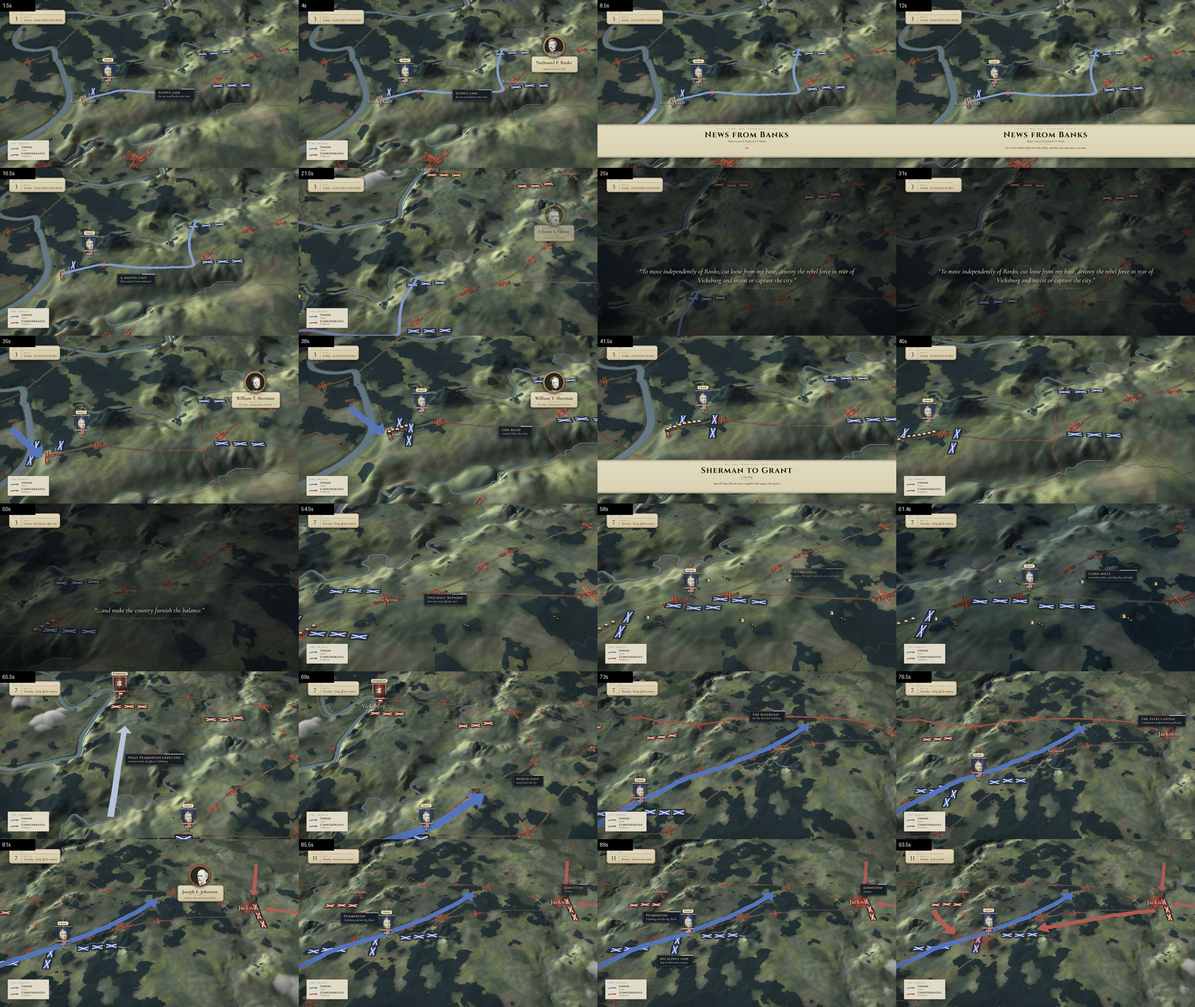
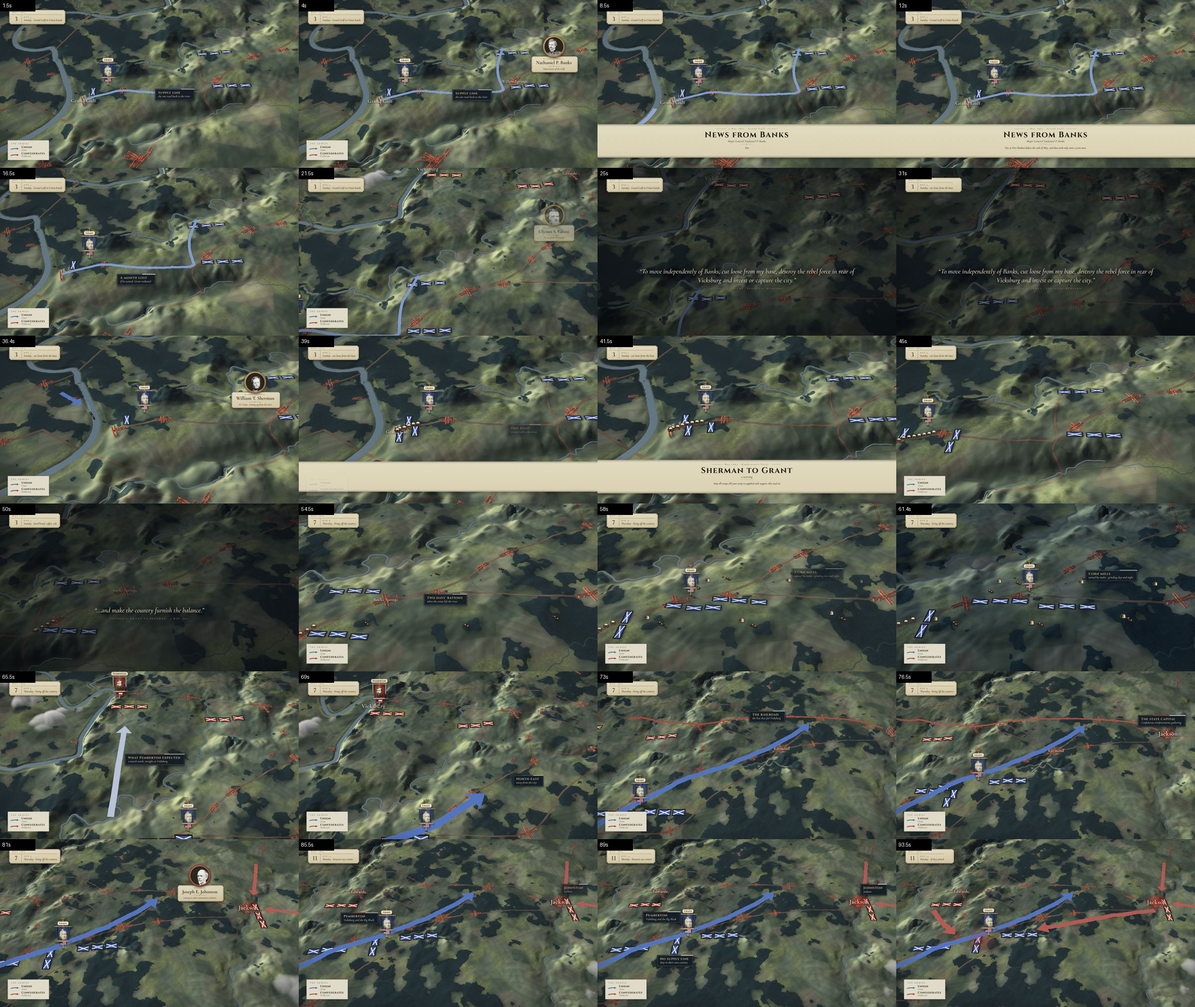
Vicksburg #19: WIP scene agents output
Claude-Session: https://claude.ai/code/session_011uJnjA7y1mRFw6KPGY1APG

Changed region(s): [[0.0, 0.3116, 0.75, 0.4985], [0.7812, 0.4362, 0.8125, 0.4674], [0.5312, 0.4674, 0.5625, 0.4985]]

diff --git a/vicksburg/sequences/S12/seq.js b/vicksburg/sequences/S12/seq.js
@@ -127,8 +127,8 @@ const build = async (ctx) => { WD = ctx.world; const { THREE, world } = ctx, sc 
     CAVE_M.build(ctx); }
   OAK_M.build(ctx); FLAGS.build(ctx);
   // trench ribbons: a dark cut + a pale parapet on the enemy side, draped on the ground; grown by draw range in a custom emitter (before render)
-  const dark = new THREE.MeshLambertMaterial({ color: 0x3e3123, polygonOffset: true, polygonOffsetFactor: -4, polygonOffsetUnits: -4 });
-  const pale = new THREE.MeshLambertMaterial({ color: 0xcfbb92, polygonOffset: true, polygonOffsetFactor: -3, polygonOffsetUnits: -3 });
+  const dark = new THREE.MeshLambertMaterial({ color: 0x3e3123, side: THREE.DoubleSide, polygonOffset: true, polygonOffsetFactor: -4, polygonOffsetUnits: -4 });
+  const pale = new THREE.MeshLambertMaterial({ color: 0xcfbb92, side: THREE.DoubleSide, polygonOffset: true, polygonOffsetFactor: -3, polygonOffsetUnits: -3 });
   const ribbon = (pts, w, off) => { const q = []; const L = VX.len(pts); for (let s = 0; s <= L + 1e-6; s += 0.05) q.push(VX.along(pts, Math.min(s, L)));
     const pos = []; for (let i = 0; i < q.length - 1; i++) { const a = q[i], b = q[i + 1], nx = -a[3], ny = a[2], l = Math.hypot(nx, ny) || 1;
       const ux = nx / l, uy = ny / l, P0 = (p, s) => [p[0] + ux * (off + s * w / 2), p[1] + uy * (off + s * w / 2)];

diff --git a/vicksburg/sequences/S11/seq.js b/vicksburg/sequences/S11/seq.js
@@ -162,7 +162,7 @@ const build = async (ctx) => { WWD = ctx.world; const { THREE, world } = ctx, sc
     const A1 = [a[0] - ux * W2 / 2, a[1] - uy * W2 / 2], A2 = [a[0] + ux * W2 / 2, a[1] + uy * W2 / 2], B1 = [b[0] - ux * W2 / 2, b[1] - uy * W2 / 2], B2 = [b[0] + ux * W2 / 2, b[1] + uy * W2 / 2];
     pos.push(A1[0], H(...A1), A1[1], B1[0], H(...B1), B1[1], A2[0], H(...A2), A2[1], A2[0], H(...A2), A2[1], B1[0], H(...B1), B1[1], B2[0], H(...B2), B2[1]); }
   const g = new THREE.BufferGeometry(); g.setAttribute("position", new THREE.Float32BufferAttribute(pos, 3));
-  const mat = new THREE.MeshBasicMaterial({ color: 0xd8382a, transparent: true, opacity: 0, depthWrite: false, polygonOffset: true, polygonOffsetFactor: -6, polygonOffsetUnits: -6 });
+  const mat = new THREE.MeshBasicMaterial({ color: 0xd8382a, side: THREE.DoubleSide, transparent: true, opacity: 0, depthWrite: false, polygonOffset: true, polygonOffsetFactor: -6, polygonOffsetUnits: -6 });
   const m = new THREE.Mesh(g, mat); m.renderOrder = 4; sc.add(m); const NQ = q.length - 1;
   ctx.FX[S].custom((t) => { const k = sstep(T.land - 0.2, T.ridges + 0.6, t), out = 1 - sstep(39.4, 40.8, t); m.visible = t > T.land - 0.2 && t < 41;
     g.setDrawRange(0, Math.round(NQ * k) * 6); mat.opacity = 0.75 * out * (0.85 + 0.15 * Math.sin(t * 3)); });

diff --git a/vicksburg/sequences/S06/NOTES.md b/vicksburg/sequences/S06/NOTES.md
@@ -7,7 +7,7 @@ same keys, same `group` so the two copies are not pushed apart); the red masses 
 | --- | --- | --- |
 | 0-18.6 | wide over Grand Gulf (dist 300): Union box at Grand Gulf, McClernand at Willow Springs, McPherson at Hankinson's Ferry, Grant banner; thin pale-blue supply line Grand Gulf -> Willow Springs -> Hankinson's Ferry | plaque 3 MAY · DAY 4 · "Grand Gulf in Union hands" (0.35); "Supply line" (1.0); Banks card on "Banks" (2.94); pale arrow down the Mississippi + "Port Hudson" label on "Port Hudson" (5.7); letter card "News from Banks" on "word came" (7.38): Not at Port Hudson before the 10th of May, and then with only some 15,000 men (no quote marks: Grant's paraphrase); "A month lost" (16.0) |
 | 18.6-33 | pull back north (dist 350): Pemberton's red masses appear at Vicksburg and on the Big Black on "enemy" (19.6) | Grant card (21.36); quote card "To move independently of Banks, cut loose from my base ..." (23.5-33.0, GM ch. XXXIV); the supply line fades on "cut loose" (26.1), plaque "cut loose from the base" |
-| 33-43.6 | Grand Gulf (dist 230): Sherman's corps crosses from Hard Times (arrow) and marches up the one road; 11 wagons jam the road | Sherman card (33.78); "One road" (36.85); letter card "Sherman to Grant" (38.8): Stop all troops till your army is supplied with wagons: this road will be jammed, "as sure as life." (quote marks only around those words; engine `marks: false`) |
+| 33-43.6 | Grand Gulf (dist 230): Sherman's corps comes over from Hard Times: short arrow on the west bank, two steamers cross the Mississippi (34.4-38.4), his boxes appear at the Grand Gulf landing (37.4) and march up the one road (a road march: column); 11 wagons jam the road | Sherman card (33.78); "One road" (36.85); letter card "Sherman to Grant" (38.8): Stop all troops till your army is supplied with wagons: this road will be jammed, "as sure as life." (quote marks only around those words; engine `marks: false`) |
 | 43.6-62.6 | inland over Rocky Springs (dist 250-220): a short wagon train, the corps move inland, cattle driven in from the plantations, 6 corn mills with turning wheels; a quick night dip 60.8-62.5 on "day and night" | plaque "hard bread, coffee, salt" (46.3); quote card "...and make the country furnish the balance." (48.75-52.2, Grant to Sherman, 9 May 1863); plaque 7 MAY · DAY 8 (52.4); "Two days' rations" (54.2); "Corn mills · turned by mules, grinding day and night" (57.9) |
 | 62.6-82 | THE TWIST: pull back to Vicksburg + the army (dist 365): Pemberton banner (63.1); pale ghost arrow north to Vicksburg on "march north" (64.4), fades on "But instead" (67.8); the real blue arrow bends north-east on "turned north-east" (68.2, grows 4.8 s) and the corps follow it; pan east (dist 470) | "What Pemberton expected" (64.5); "North-east · away from the city" (68.6); red-brown railroad arrow Jackson -> Vicksburg + "The railroad · the line that fed Vicksburg" on "railroad" (71.8); "Jackson" + red pulse (73.75); "The state capital" (75.0); red arrows from east + north and the red force at Jackson on "Confederate reinforcements" (76.3-76.7); Johnston card on "Joseph Johnston" (80.3) |
 | 82-95.2 | stakes (dist 440-456): Pemberton's mass edges toward Edwards, Johnston at Jackson, Grant's army between them | plaque 11 MAY · DAY 12 (82.25); "Pemberton" + "Johnston" labels on "two enemy armies" (84.9); "No supply line" (87.0); two red arrows close on the army on "joined" (90.9 / 91.3); red pulse on the army on "crushed" (92.4) |
